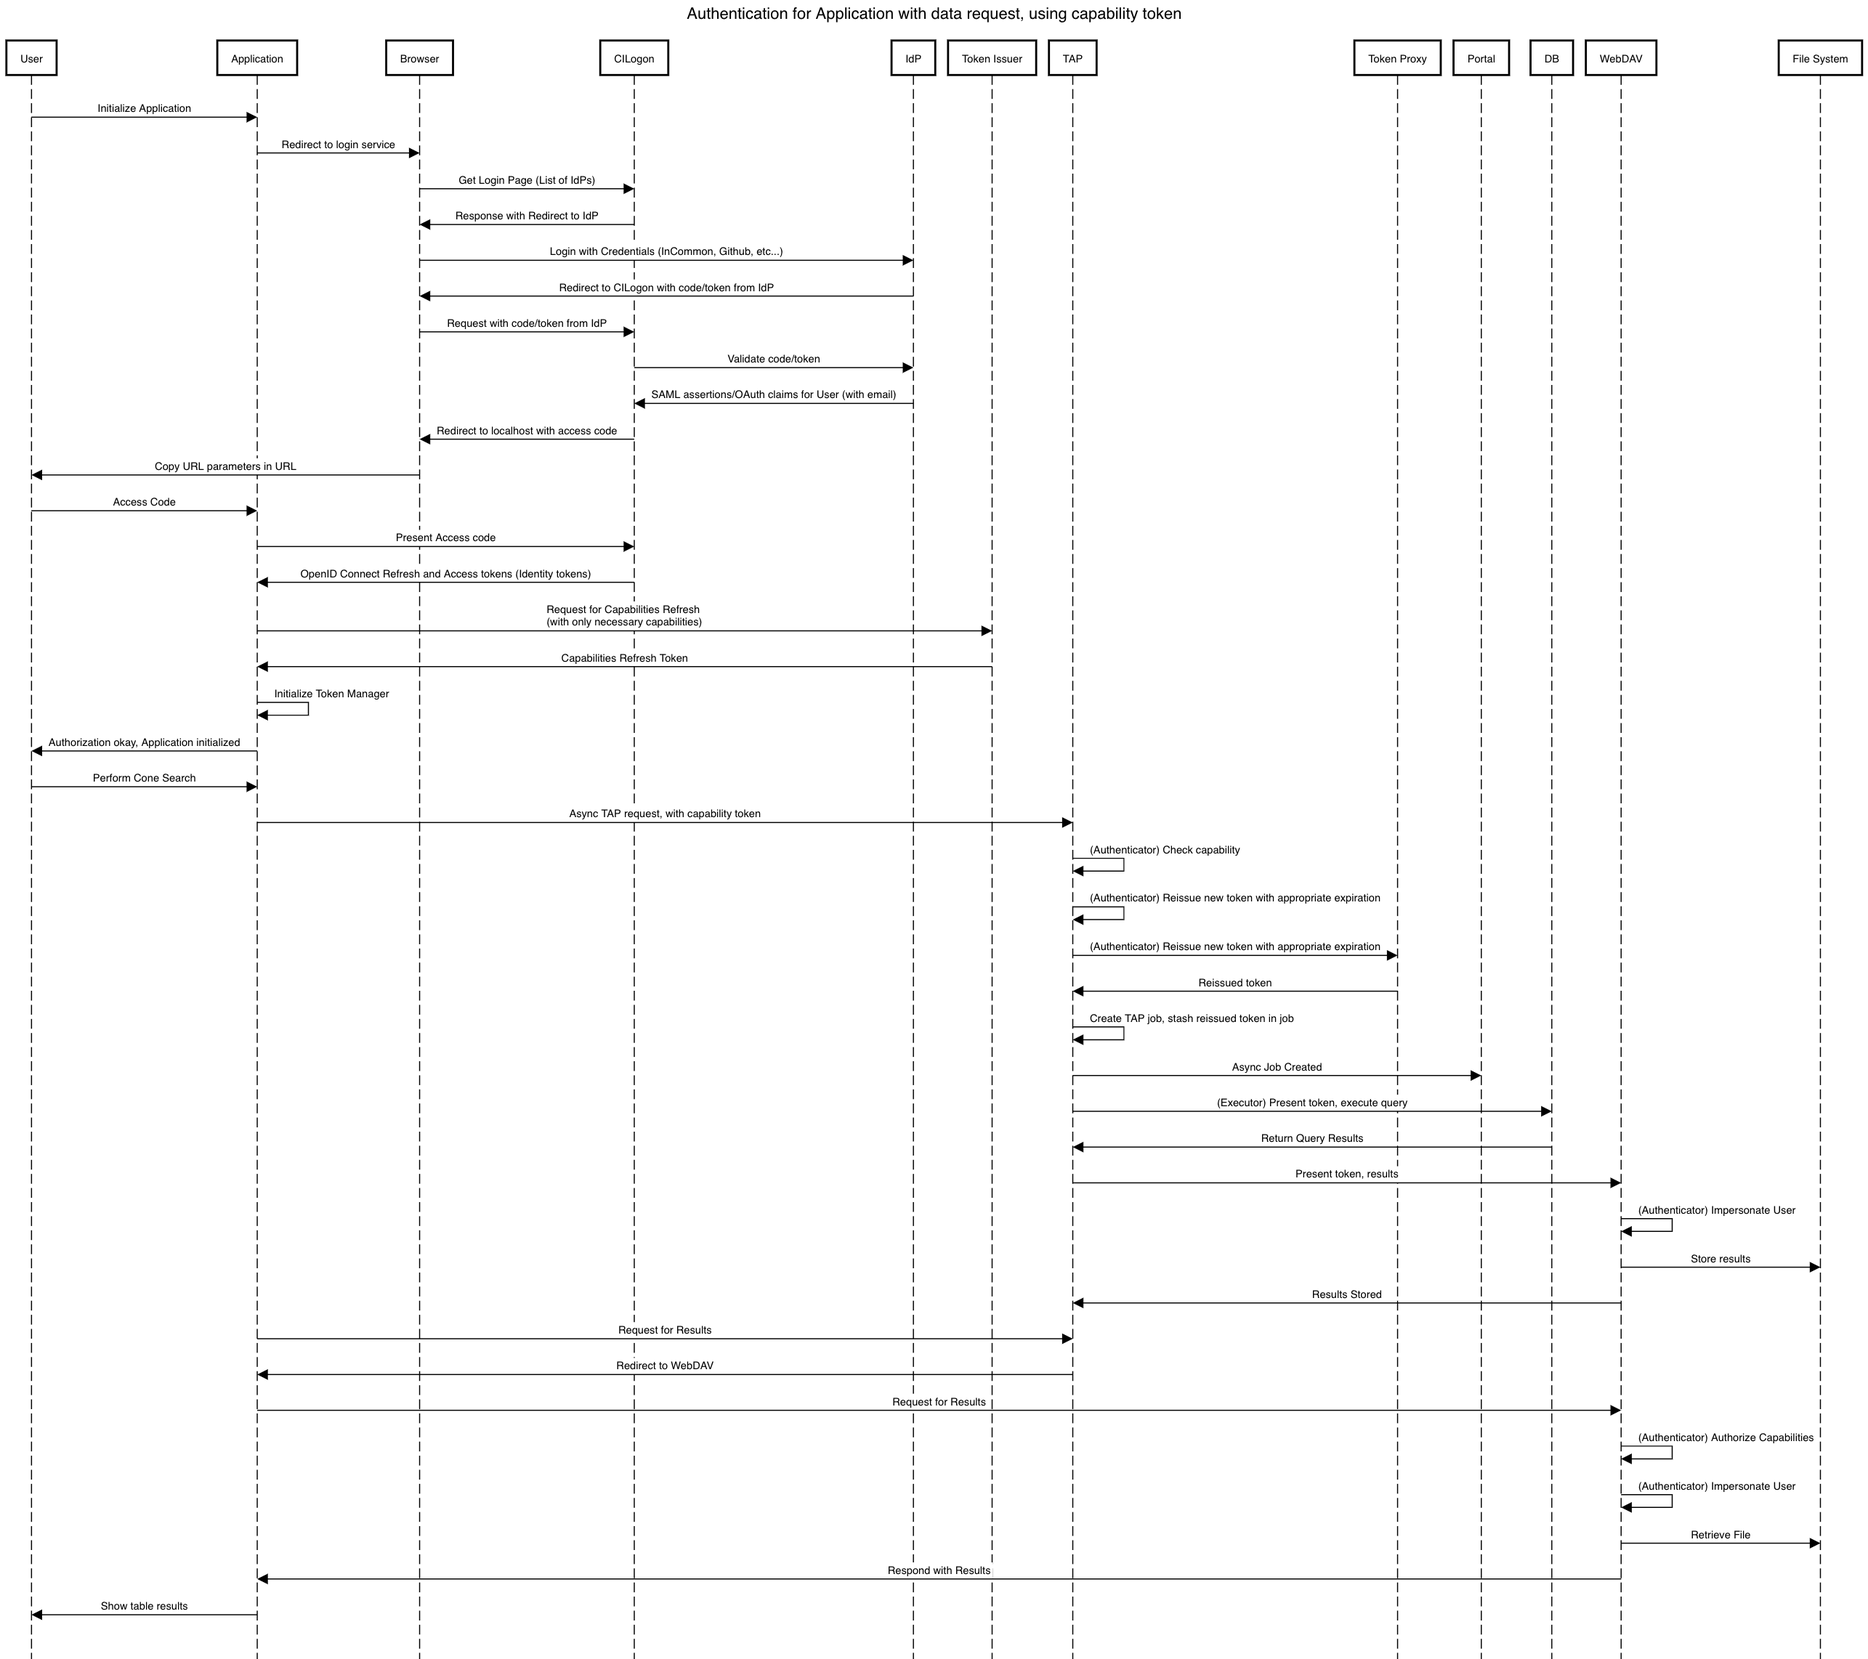
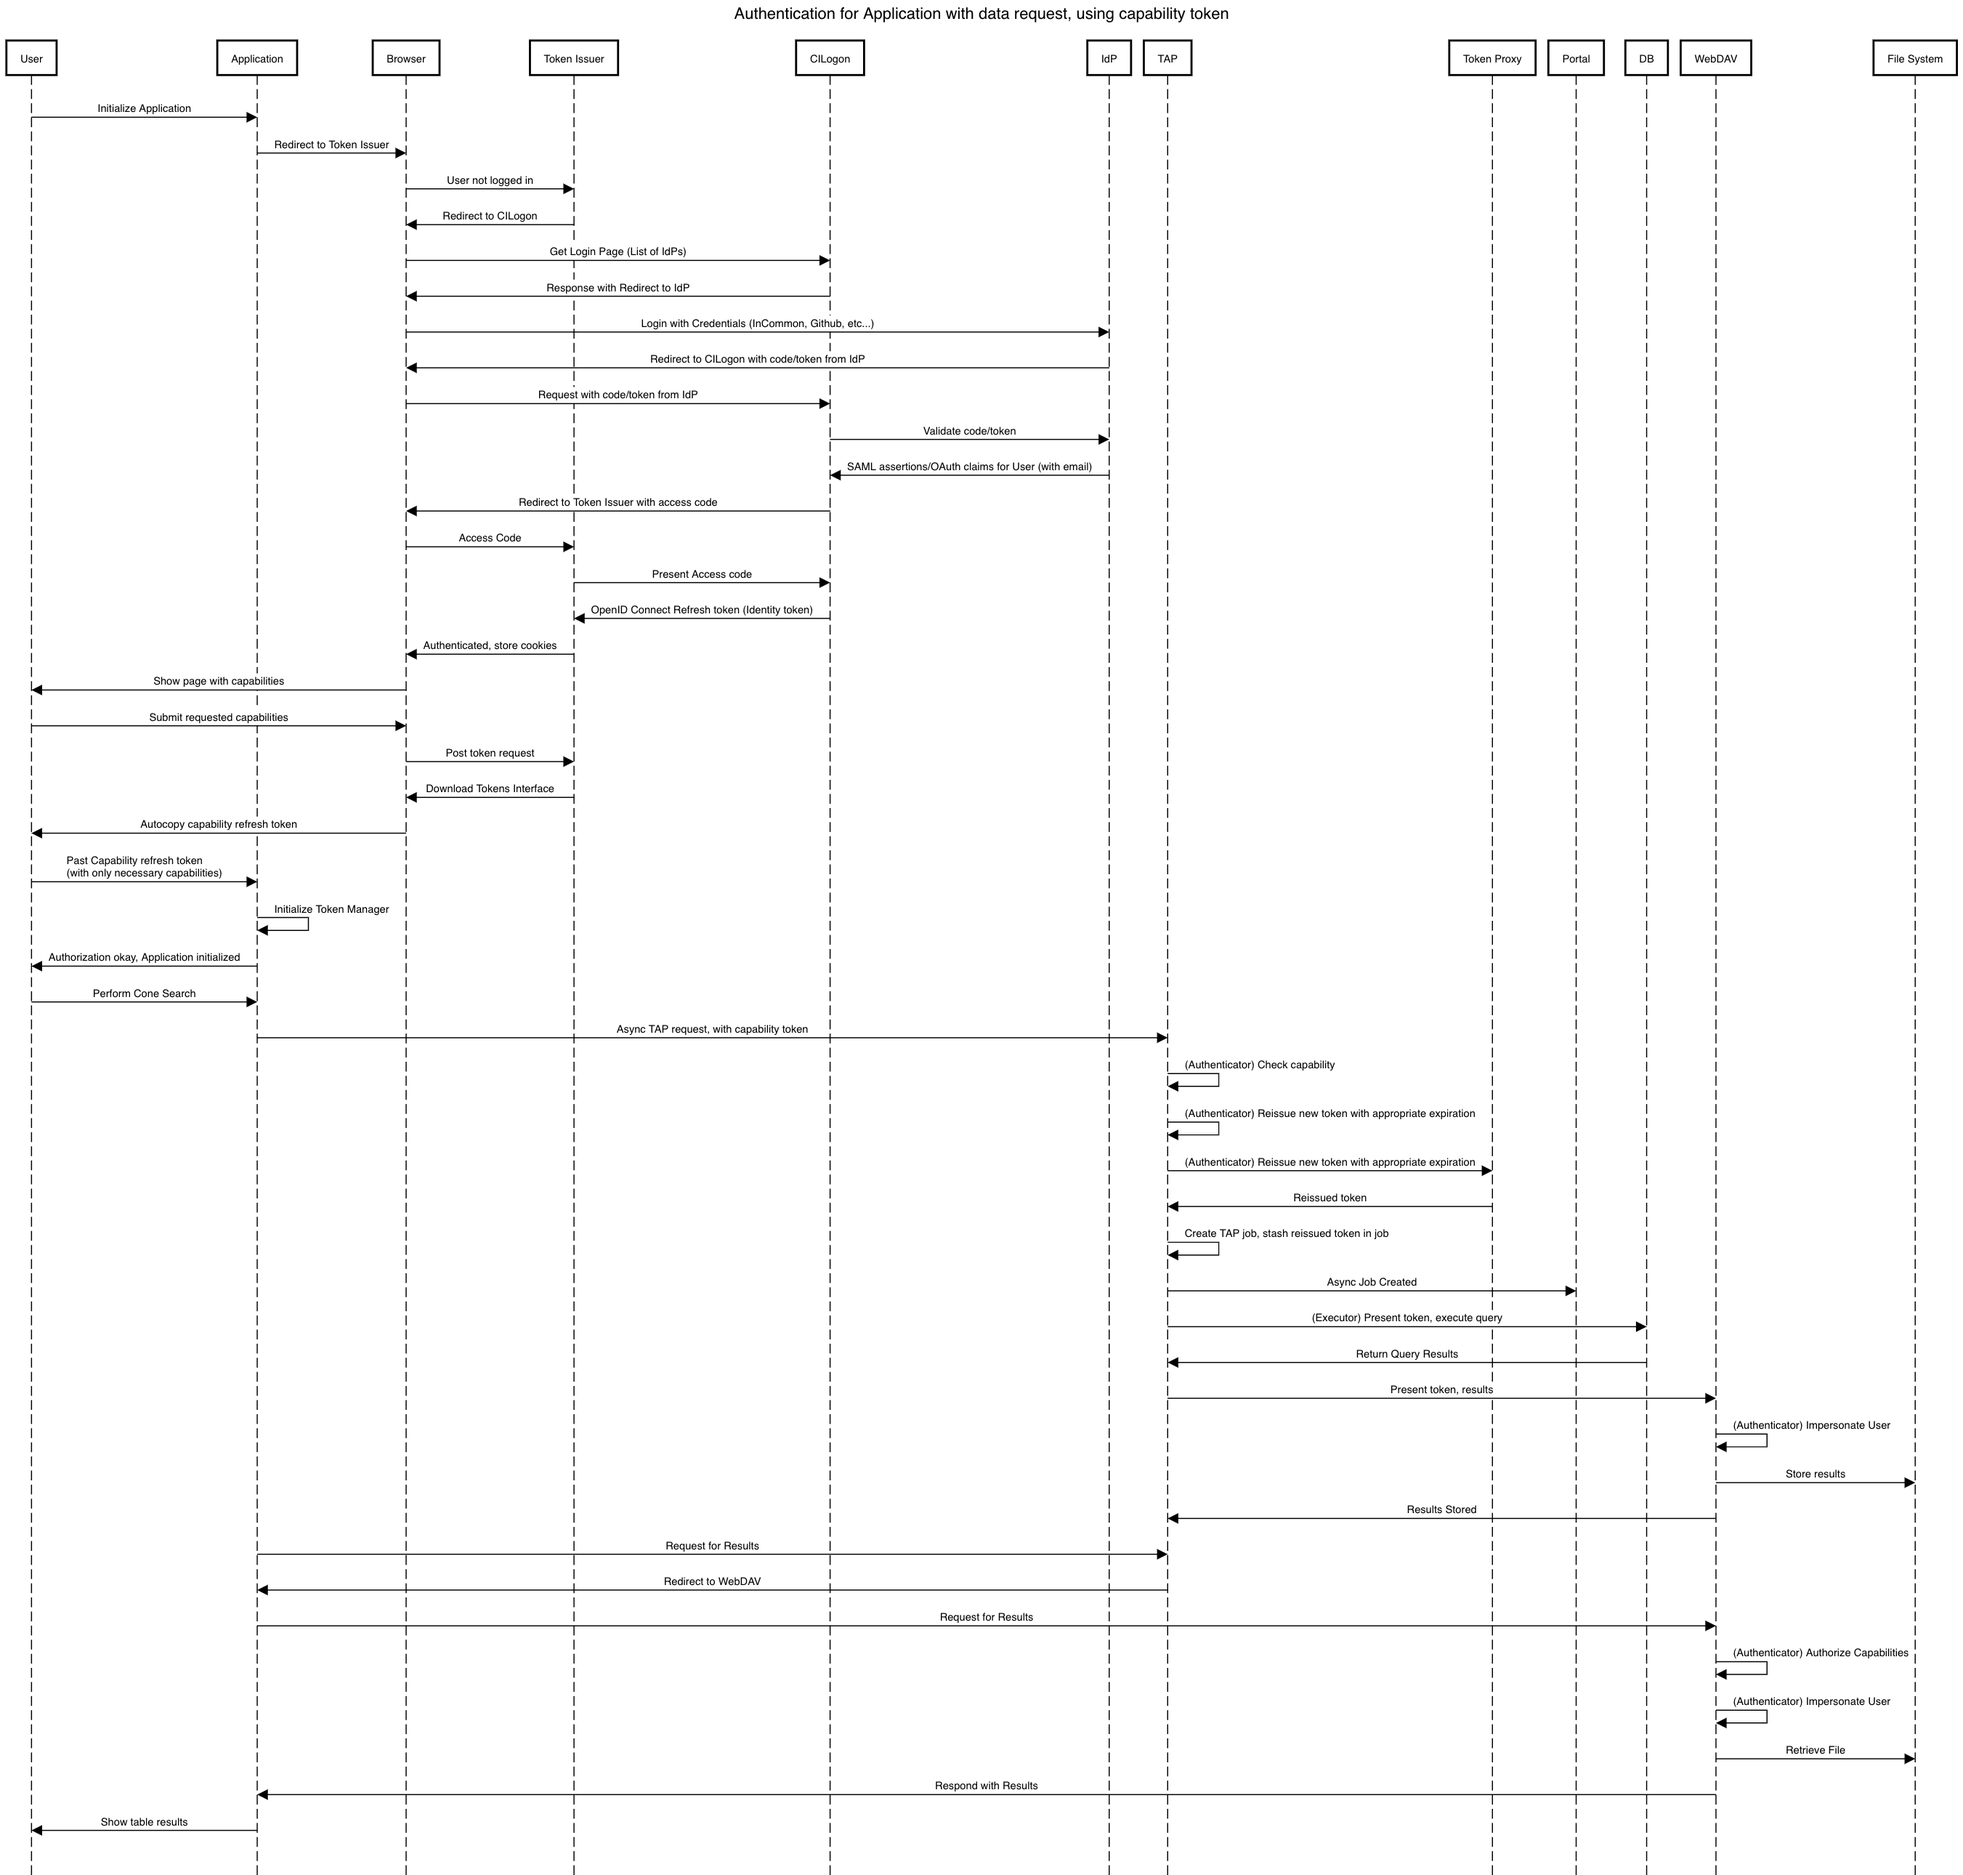
Update for Application with Capabilities flow Add target to index

diff --git a/diagrams.md b/diagrams.md
@@ -217,12 +217,11 @@ WebDAV->Portal: Respond with Results
 Portal->Browser: Interactive Table Results Page
 
 ### Application with Capability Token
-> TODO: Not clear how a user, in conjunction with the application,
-> specifies the capabilties they need.
-
 title Authentication for Application with data request, using capability token
 User->Application: Initialize Application
-Application->Browser: Redirect to login service
+Application->Browser: Redirect to Token Issuer
+Browser->Token Issuer: User not logged in
+Token Issuer->Browser: Redirect to CILogon
 Browser->CILogon: Get Login Page (List of IdPs)
 CILogon->Browser: Response with Redirect to IdP
 Browser->IdP: Login with Credentials (InCommon, Github, etc...)
@@ -230,13 +229,17 @@ IdP->Browser: Redirect to CILogon with code/token from IdP
 Browser->CILogon: Request with code/token from IdP
 CILogon->IdP: Validate code/token
 IdP->CILogon: SAML assertions/OAuth claims for User (with email)
-CILogon->Browser: Redirect to localhost with access code
-Browser->User: Copy URL parameters in URL
-User->Application: Access Code
-Application->CILogon: Present Access code
-CILogon->Application: OpenID Connect Refresh and Access tokens (Identity tokens)
-Application->Token Issuer: Request for Capabilities Refresh \n(with only necessary capabilities)
-Token Issuer->Application: Capabilities Refresh Token
+CILogon->Browser: Redirect to Token Issuer with access code
+Browser->Token Issuer: Access Code
+Token Issuer->CILogon: Present Access code
+CILogon->Token Issuer: OpenID Connect Refresh token (Identity token)
+Token Issuer->Browser: Authenticated, store cookies
+Browser->User: Show page with capabilities
+User->Browser: Submit requested capabilities
+Browser->Token Issuer: Post token request
+Token Issuer->Browser: Download Tokens Interface
+Browser->User: Autocopy capability refresh token
+User->Application: Past Capability refresh token \n(with only necessary capabilities)
 Application->Application: Initialize Token Manager
 Application->User: Authorization okay, Application initialized
 User->Application: Perform Cone Search

diff --git a/index.rst b/index.rst
@@ -586,9 +586,6 @@ Portal with Capability Token
 Application with Capability Token
 ~~~~~~~~~~~~~~~~~~~~~~~~~~~~~~~~~
 
-.. todo:: `Not clear how a user, in conjunction with the application, specifies the capabilties they
-    need.`
-
 .. figure:: /_static/Authentication_for_Application_with_data_request_using_capability_token.png
    :target: ./_static/Authentication_for_Application_with_data_request_using_capability_token.png
 
